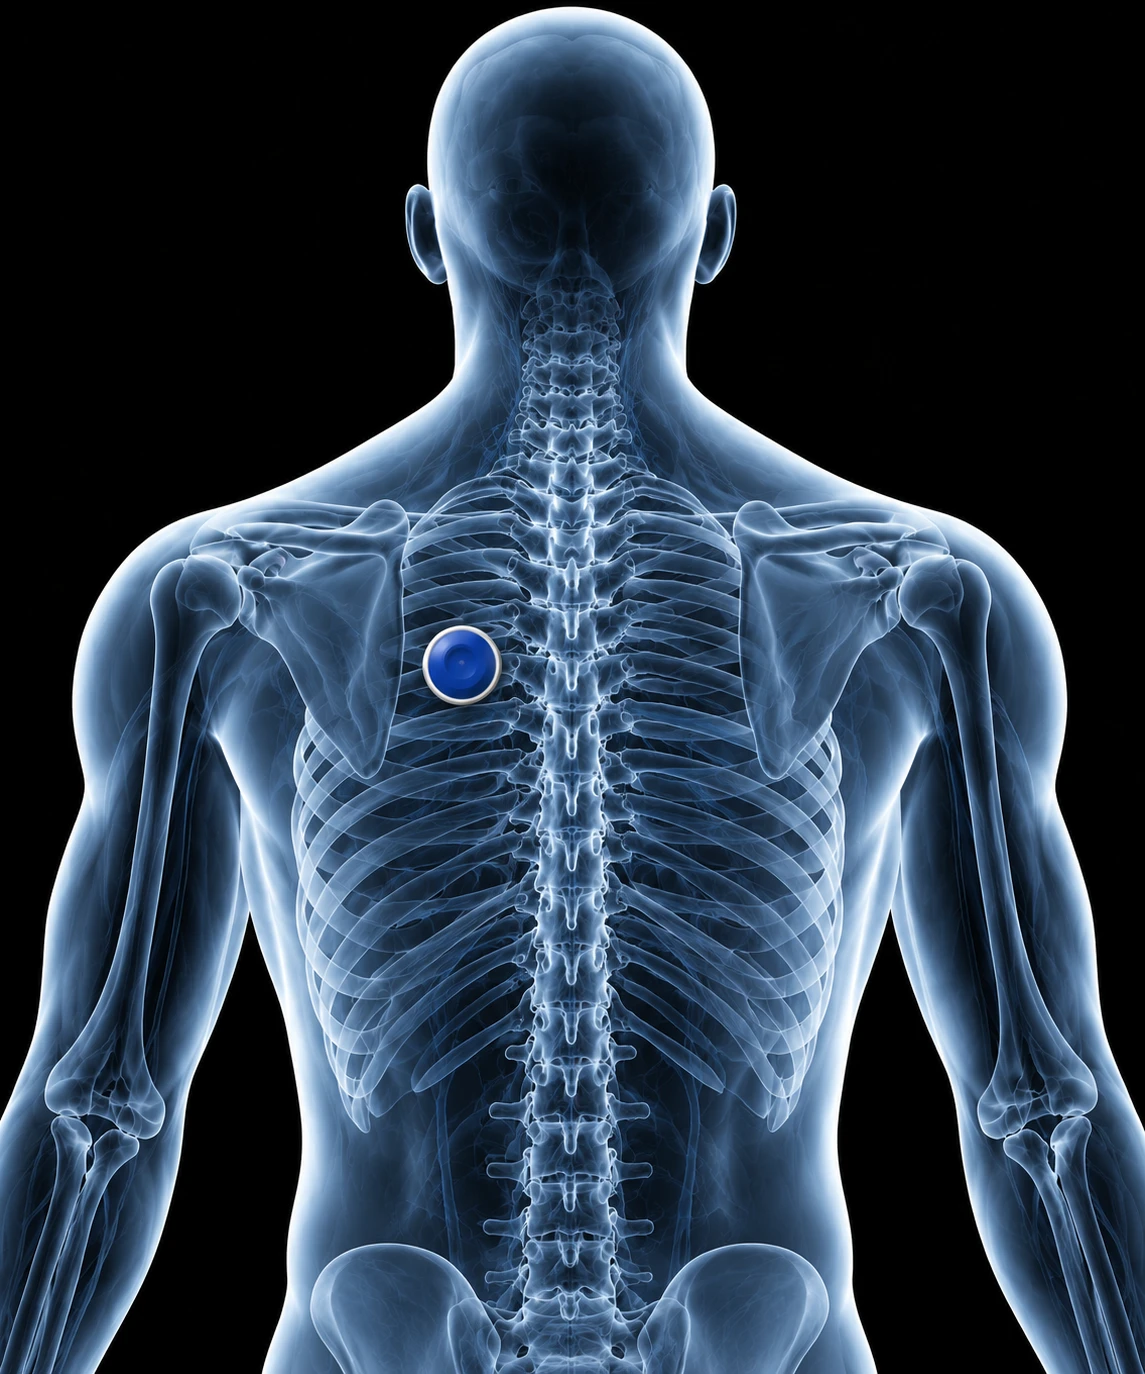
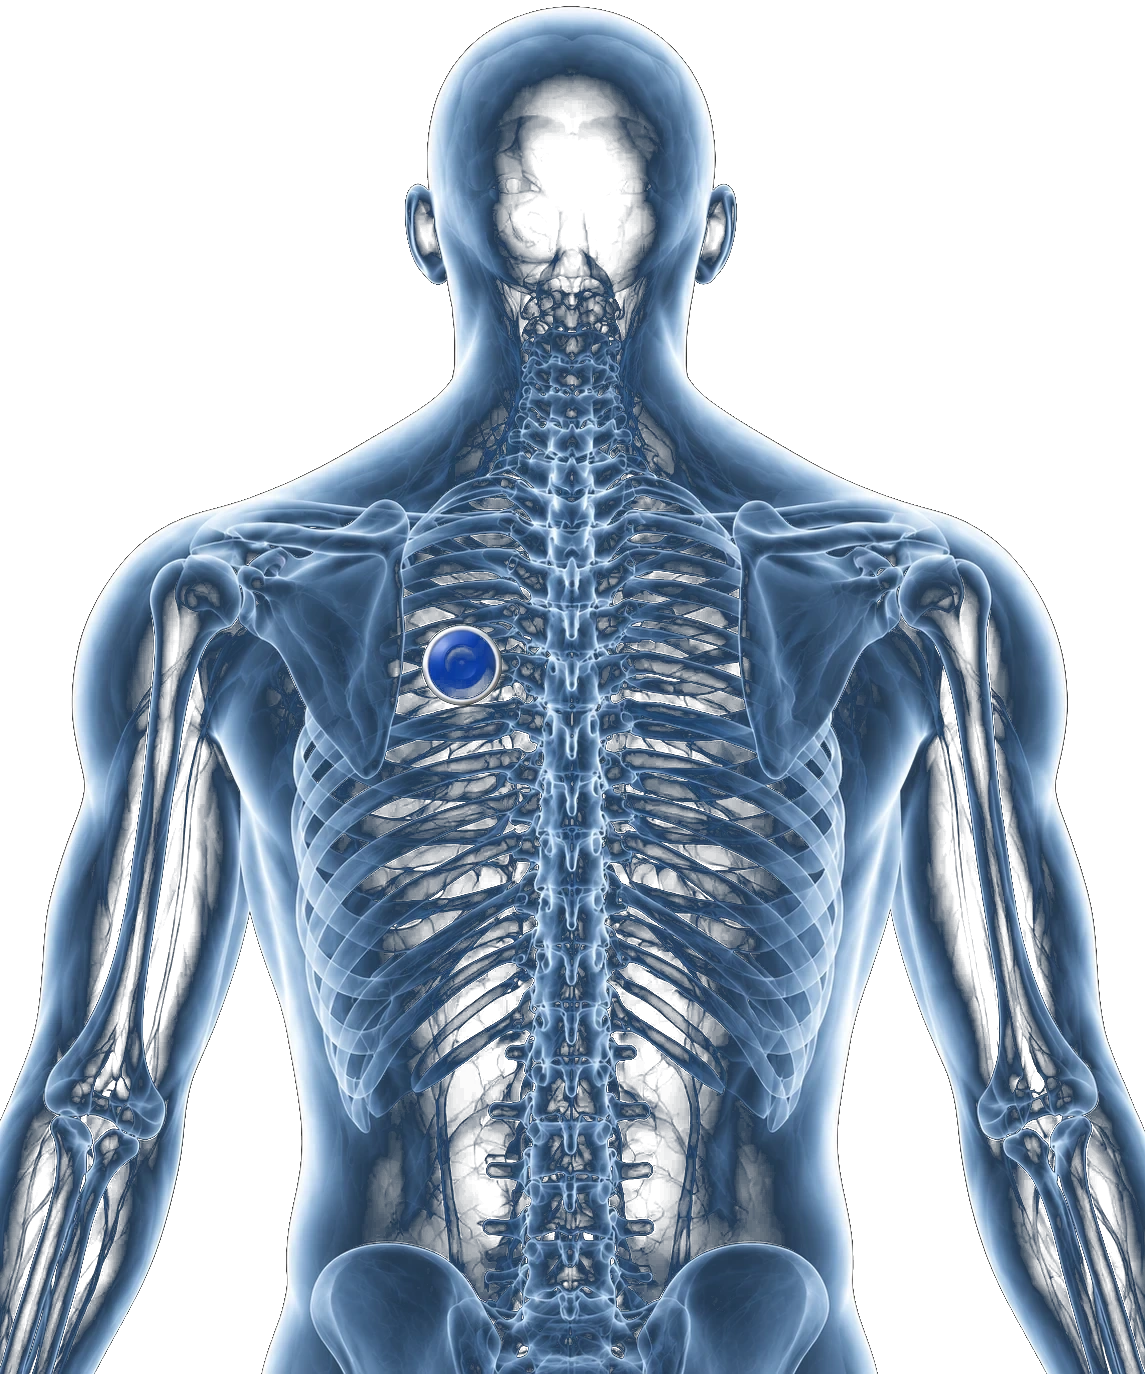
Remove image black backgrounds with real alpha transparency
Processes both patient webp images through sharp to extract luminance
and write a proper alpha channel — pure black becomes fully transparent,
the edge zone (lum 18-55) feathers in, everything else stays opaque.
Removes the mix-blend-mode: screen workaround from the component.
Figure now sits directly on the site background with no fringing.

Claude-Session: https://claude.ai/code/session_01MZyyfojEyWYk4cPDoJhQzx

diff --git a/src/pages/CorVistaPatient3D.jsx b/src/pages/CorVistaPatient3D.jsx
@@ -44,7 +44,6 @@ export default function CorVistaPatient3D({ sceneState = 'patient', view = 'fron
           height: '100%',
           objectFit: 'cover',
           objectPosition: 'center top',
-          mixBlendMode: 'screen',
           opacity: showFront ? 1 : 0,
           transition: T,
           userSelect: 'none',
@@ -63,7 +62,6 @@ export default function CorVistaPatient3D({ sceneState = 'patient', view = 'fron
           height: '100%',
           objectFit: 'cover',
           objectPosition: 'center top',
-          mixBlendMode: 'screen',
           opacity: showBack ? 1 : 0,
           transition: T,
           userSelect: 'none',
